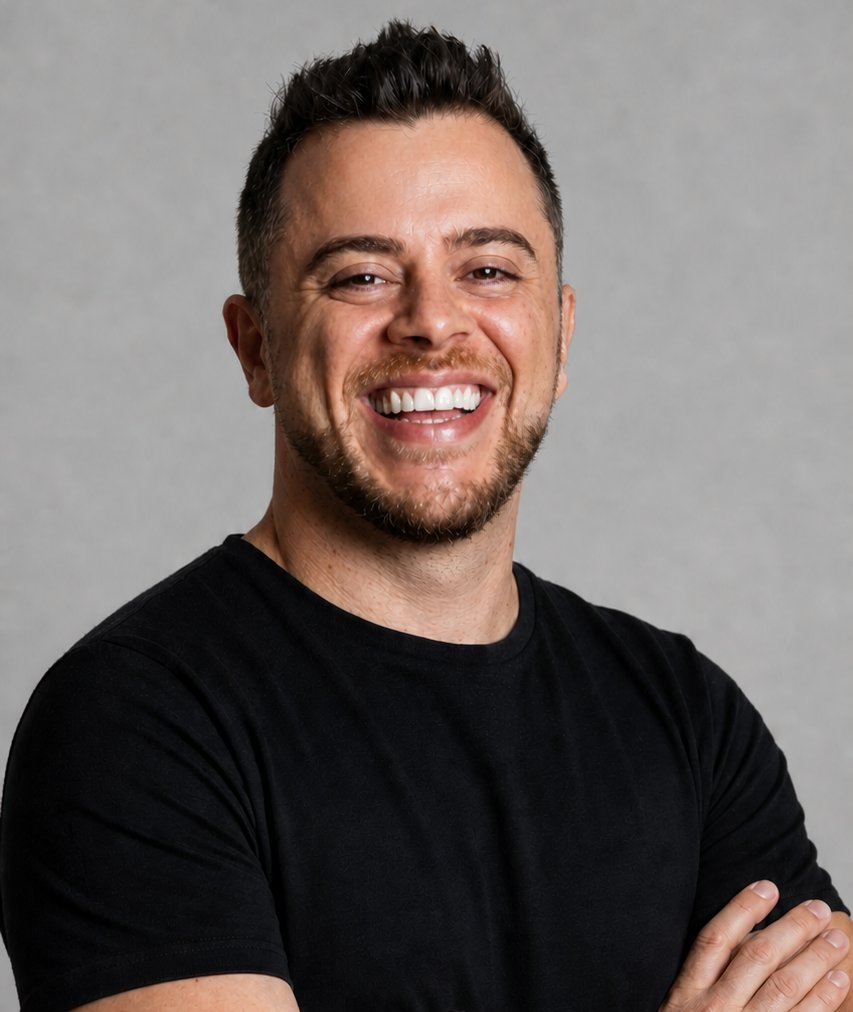
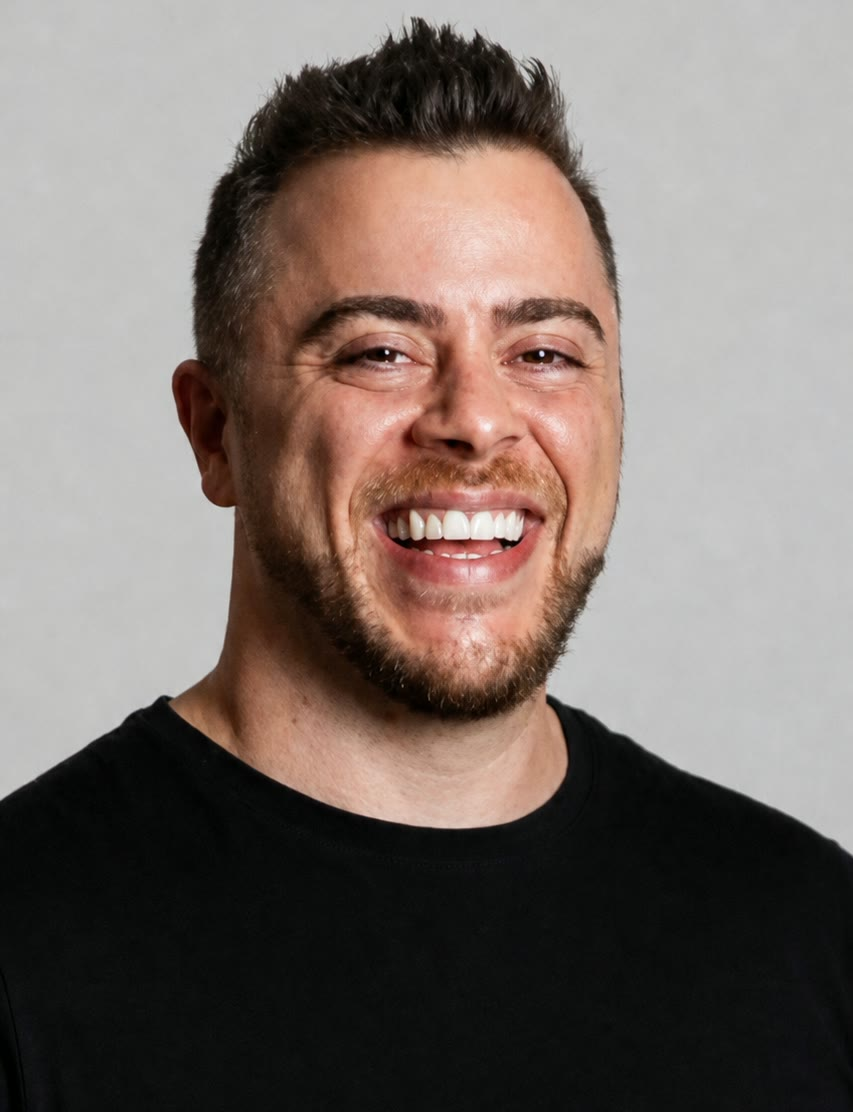
Troca a foto da secao Quem sou eu e liga os pontos da timeline

diff --git a/index.html b/index.html
@@ -108,6 +108,8 @@
 
     /* --- MÉTODO (timeline): mais respiro entre os passos empilhados --- */
     [style*="minmax(min(100%, 240px)"] { gap: 36px !important; }
+    /* some a linha pontilhada horizontal quando os passos ficam empilhados */
+    [style*="rgba(196,212,1,.55) 0 7px"] { display: none !important; }
 
     /* --- QUEM SOU EU: os dois chips em coluna única --- */
     [style*="minmax(min(100%, 160px)"] { grid-template-columns: 1fr !important; }
@@ -243,28 +245,28 @@
       </div>
       <div style="display: grid; grid-template-columns: repeat(auto-fit, minmax(min(100%, 240px), 1fr)); gap: 30px;">
         <div data-reveal="1" style="opacity: 0; transform: translateY(26px); transition: opacity .7s ease, transform .7s ease; position: relative; padding-top: 34px;">
-          <span style="position: absolute; top: 0; left: 0; right: 0; height: 1px; background: repeating-linear-gradient(to right, #34352E 0 6px, transparent 6px 12px);"></span>
-          <span style="position: absolute; top: -17px; left: 0; width: 34px; height: 34px; border-radius: 50%; border: 1.5px solid #C4D401; background: #0b0c0b; display: grid; place-items: center; font-size: 13px; font-weight: 700; color: #C4D401;">1</span>
+          <span style="position: absolute; top: 0; left: 17px; width: calc(100% + 30px); height: 2px; background: repeating-linear-gradient(to right, rgba(196,212,1,.55) 0 7px, transparent 7px 14px);"></span>
+          <span style="position: absolute; top: -17px; left: 0; width: 34px; height: 34px; border-radius: 50%; border: 1.5px solid #C4D401; background: #0b0c0b; display: grid; place-items: center; font-size: 13px; font-weight: 700; color: #C4D401; z-index: 2;">1</span>
           <h3 style="margin: 0 0 12px; font-family: Montserrat, sans-serif; font-size: 17.5px; line-height: 1.3; font-weight: 600; color: #ffffff;">Conhecemos o cenário</h3>
           <p style="margin: 0 0 12px; font-size: 14px; line-height: 1.7; color: #AFAFAF;">Analisamos sua oferta, público, processo comercial, histórico de campanhas e objetivos de aquisição.</p>
           <p style="margin: 0; font-size: 14px; line-height: 1.7; color: #AFAFAF;">Também entendemos como os leads são atendidos e quais características definem uma boa oportunidade para sua empresa.</p>
         </div>
         <div data-reveal="1" style="opacity: 0; transform: translateY(26px); transition: opacity .7s ease .1s, transform .7s ease .1s; position: relative; padding-top: 34px;">
-          <span style="position: absolute; top: 0; left: 0; right: 0; height: 1px; background: repeating-linear-gradient(to right, #34352E 0 6px, transparent 6px 12px);"></span>
-          <span style="position: absolute; top: -17px; left: 0; width: 34px; height: 34px; border-radius: 50%; border: 1.5px solid #C4D401; background: #0b0c0b; display: grid; place-items: center; font-size: 13px; font-weight: 700; color: #C4D401;">2</span>
+          <span style="position: absolute; top: 0; left: 17px; width: calc(100% + 30px); height: 2px; background: repeating-linear-gradient(to right, rgba(196,212,1,.55) 0 7px, transparent 7px 14px);"></span>
+          <span style="position: absolute; top: -17px; left: 0; width: 34px; height: 34px; border-radius: 50%; border: 1.5px solid #C4D401; background: #0b0c0b; display: grid; place-items: center; font-size: 13px; font-weight: 700; color: #C4D401; z-index: 2;">2</span>
           <h3 style="margin: 0 0 12px; font-family: Montserrat, sans-serif; font-size: 17.5px; line-height: 1.3; font-weight: 600; color: #ffffff;">Estruturamos a aquisição</h3>
           <p style="margin: 0 0 12px; font-size: 14px; line-height: 1.7; color: #AFAFAF;">Definimos campanhas, públicos, mensagens, pontos de conversão e critérios de qualificação.</p>
           <p style="margin: 0; font-size: 14px; line-height: 1.7; color: #AFAFAF;">Quando necessário, também organizamos a mensuração, formulários, integrações e automações envolvidas no processo.</p>
         </div>
         <div data-reveal="1" style="opacity: 0; transform: translateY(26px); transition: opacity .7s ease .2s, transform .7s ease .2s; position: relative; padding-top: 34px;">
-          <span style="position: absolute; top: 0; left: 0; right: 0; height: 1px; background: repeating-linear-gradient(to right, #34352E 0 6px, transparent 6px 12px);"></span>
-          <span style="position: absolute; top: -17px; left: 0; width: 34px; height: 34px; border-radius: 50%; border: 1.5px solid #C4D401; background: #0b0c0b; display: grid; place-items: center; font-size: 13px; font-weight: 700; color: #C4D401;">3</span>
+          <span style="position: absolute; top: 0; left: 17px; width: calc(100% + 30px); height: 2px; background: repeating-linear-gradient(to right, rgba(196,212,1,.55) 0 7px, transparent 7px 14px);"></span>
+          <span style="position: absolute; top: -17px; left: 0; width: 34px; height: 34px; border-radius: 50%; border: 1.5px solid #C4D401; background: #0b0c0b; display: grid; place-items: center; font-size: 13px; font-weight: 700; color: #C4D401; z-index: 2;">3</span>
           <h3 style="margin: 0 0 12px; font-family: Montserrat, sans-serif; font-size: 17.5px; line-height: 1.3; font-weight: 600; color: #ffffff;">Colocamos as campanhas em operação</h3>
           <p style="margin: 0; font-size: 14px; line-height: 1.7; color: #AFAFAF;">As campanhas entram no ar e começamos a gerar dados reais sobre comportamento, demanda e qualidade dos contatos.</p>
         </div>
         <div data-reveal="1" style="opacity: 0; transform: translateY(26px); transition: opacity .7s ease .3s, transform .7s ease .3s; position: relative; padding-top: 34px;">
-          <span style="position: absolute; top: 0; left: 0; right: 0; height: 1px; background: repeating-linear-gradient(to right, #34352E 0 6px, transparent 6px 12px);"></span>
-          <span style="position: absolute; top: -17px; left: 0; width: 34px; height: 34px; border-radius: 50%; border: 1.5px solid #C4D401; background: #C4D401; display: grid; place-items: center; font-size: 13px; font-weight: 700; color: #050505;">4</span>
+          <span style="position: absolute; top: 0; left: 17px; right: 0; height: 2px; background: repeating-linear-gradient(to right, rgba(196,212,1,.55) 0 7px, transparent 7px 14px);"></span>
+          <span style="position: absolute; top: -17px; left: 0; width: 34px; height: 34px; border-radius: 50%; border: 1.5px solid #C4D401; background: #C4D401; display: grid; place-items: center; font-size: 13px; font-weight: 700; color: #050505; z-index: 2;">4</span>
           <h3 style="margin: 0 0 12px; font-family: Montserrat, sans-serif; font-size: 17.5px; line-height: 1.3; font-weight: 600; color: #ffffff;">Melhoramos a partir dos dados</h3>
           <p style="margin: 0 0 12px; font-size: 14px; line-height: 1.7; color: #AFAFAF;">Campanhas, anúncios e investimento são ajustados continuamente a partir da performance e das informações que chegam do comercial.</p>
           <p style="margin: 0; font-size: 14px; line-height: 1.7; color: #AFAFAF;">Quanto melhor for esse retorno sobre a qualidade dos leads, mais informação teremos para orientar a aquisição.</p>
